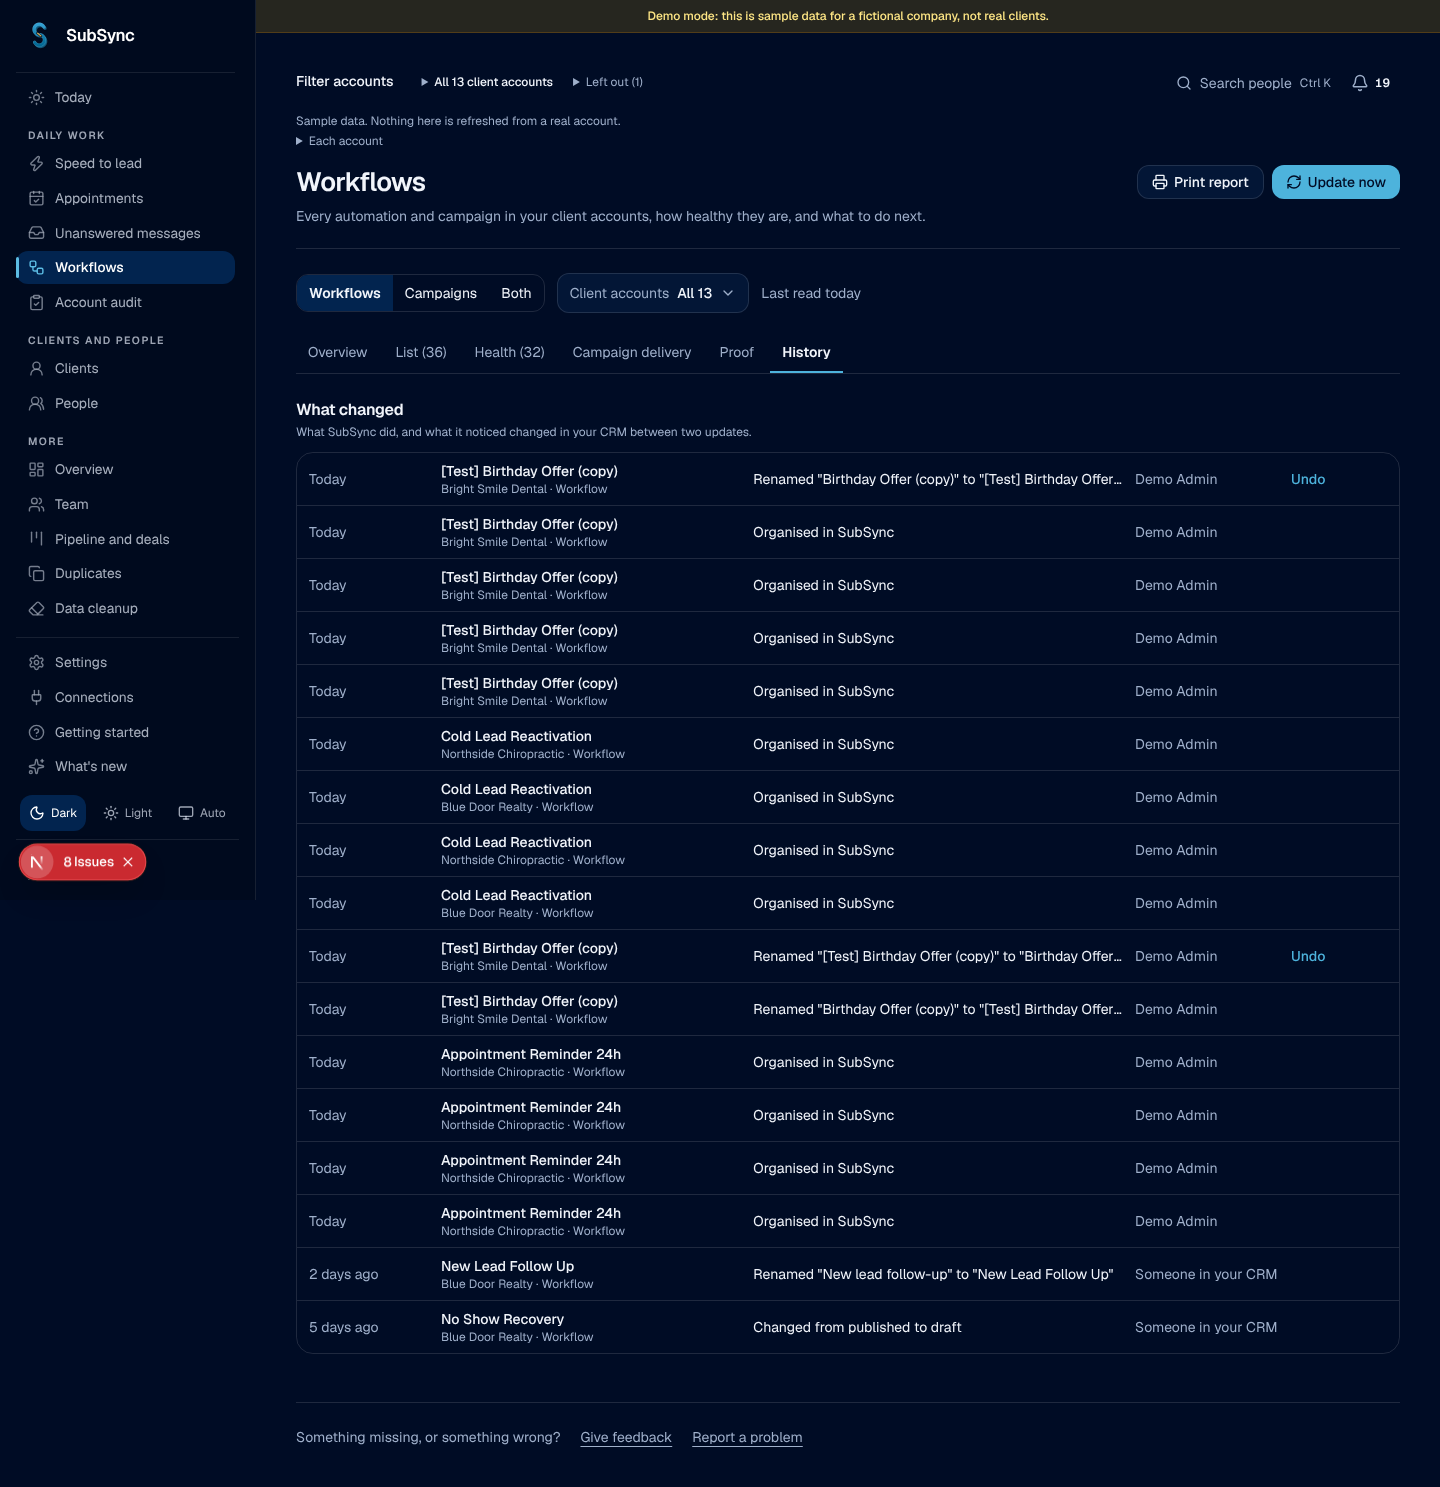
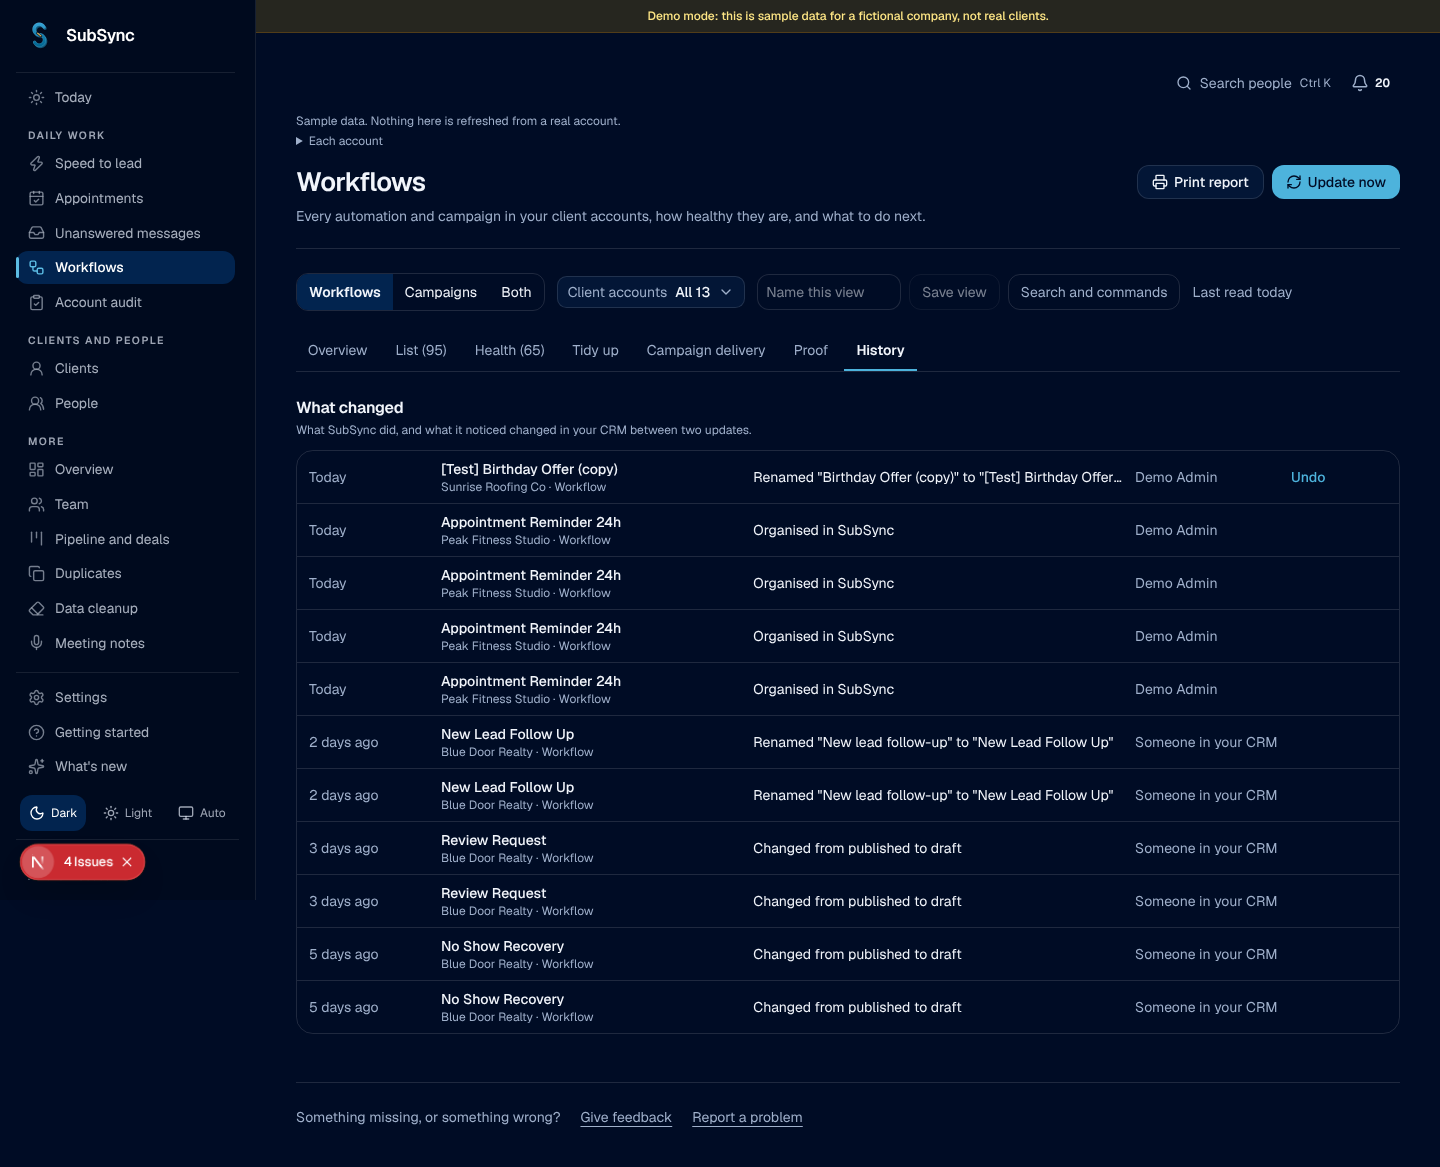
Workflows round 2: demo seed for every account, e2e for tidy, views, palette and single account picker, docs

diff --git a/tests/e2e/workflows.spec.ts b/tests/e2e/workflows.spec.ts
@@ -235,3 +235,71 @@ test("a client's staff see their own account only, with no change buttons", asyn
   await expect(page.getByTestId("wf-save")).toHaveCount(0);
   await page.getByTestId("wf-panel-close").click();
 });
+
+test("only the page's own account picker shows: the shell's account bar is hidden here and still there on other pages", async ({ page }) => {
+  await open(page);
+  await expect(page.getByTestId("toolbar").getByText("Filter accounts")).toHaveCount(0);
+  await expect(page.getByRole("button", { name: /Client accounts/ })).toBeVisible();
+  await page.goto("/app#overview");
+  await expect(page.getByTestId("toolbar").getByText("Filter accounts")).toBeVisible({ timeout: 30_000 });
+});
+
+test("tidy up: names to fix preview before they change, duplicates and the same workflow across accounts open their rows", async ({ page }) => {
+  await open(page);
+  await tab(page, "tidy");
+  await expect(page.getByTestId("wf-tidy")).toBeVisible();
+  await expect(page.getByTestId("wf-names")).toBeVisible();
+  await page.screenshot({ path: `${SHOT}/workflows-tidy-desktop-1440.png`, fullPage: true });
+  // the one-tap fix opens the rename preview with the rule already filled in; nothing is sent until Confirm
+  await page.getByTestId("wf-fix-copy").click();
+  await expect(page.getByTestId("wf-dialog")).toBeVisible();
+  await page.getByTestId("wf-allow-paused").check();
+  await page.getByTestId("wf-preview-btn").click();
+  await expect(page.getByTestId("wf-preview-row").first()).toBeVisible();
+  await expect(page.getByTestId("wf-confirm")).toBeEnabled();
+  await page.getByTestId("wf-dialog-close").click();
+  await expect(page.getByTestId("wf-dialog")).toBeHidden();
+  await page.getByTestId("wf-dupe-show").first().click();
+  await expect(panel(page)).toBeVisible();
+  expect(await count(page)).toBeGreaterThan(1);
+  await page.keyboard.press("Escape");
+  await page.getByTestId("wf-compare-show").first().click();
+  await expect(panel(page)).toBeVisible();
+  expect(await count(page)).toBeGreaterThan(1);
+  await page.keyboard.press("Escape");
+  await expect(page.getByTestId("wf-compare-row").first()).toContainText("accounts");
+});
+
+test("the turned-off check, saved views and the command palette", async ({ page }) => {
+  await open(page);
+  await tab(page, "health");
+  await expect(page.getByTestId("wf-findings")).toContainText("was turned off");
+  // saved view: name it, save it, change the page, apply it
+  await page.getByTestId("wf-view-name").fill("My tidy view");
+  await page.getByTestId("wf-tab-tidy").click();
+  await page.getByTestId("wf-show-both").click();
+  await page.getByTestId("wf-view-save").click();
+  await expect(page.getByTestId("wf-view-pick")).toBeVisible();
+  await page.getByTestId("wf-tab-overview").click();
+  await page.getByTestId("wf-show-workflow").click();
+  await page.getByTestId("wf-view-pick").selectOption("My tidy view");
+  await expect(page.getByTestId("wf-tidy")).toBeVisible();
+  await expect(page.getByTestId("wf-show-both")).toHaveAttribute("aria-pressed", "true");
+  // palette by keyboard: Ctrl Shift K, type, Enter
+  await page.keyboard.press("Control+Shift+K");
+  await expect(page.getByTestId("wf-palette")).toBeVisible();
+  await page.getByTestId("wf-palette-input").fill("proof");
+  await page.keyboard.press("Enter");
+  await expect(page.getByTestId("wf-proof")).toBeVisible();
+  // palette by mouse: open a workflow by name
+  await page.getByTestId("wf-palette-open").click();
+  await page.getByTestId("wf-palette-input").fill("Missed Call");
+  await page.getByTestId("wf-palette-row").filter({ hasText: "Items" }).first().click();
+  await expect(page.getByTestId("wf-panel")).toBeVisible();
+  await page.getByTestId("wf-panel-close").click();
+  await page.keyboard.press("Control+Shift+K");
+  await page.keyboard.press("Escape");
+  await expect(page.getByTestId("wf-palette")).toBeHidden();
+  // tidy up after the test: remove the saved view through the API the page uses
+  await page.evaluate(async () => { const t = (await fetch("/api/sso/demo", { method: "POST" }).catch(() => null)); void t; });
+});

diff --git a/tests/unit/workflows-db.test.ts b/tests/unit/workflows-db.test.ts
@@ -173,6 +173,45 @@ describe.skipIf(!HAS_DB)("Workflows module", () => {
     expect(p.status).toBe(200);
   });
 
+  it("round 2: tidy, turned off and saved views stay inside the session", async () => {
+    await sql()`insert into workflow_items (installation_id, location_id, workflow_id, name, status, remote_updated_at) values
+      (${instA}, ${A1}, 'a1-w3', 'Missed Call Text Back (copy)', 'draft', now()), (${instA}, ${A2}, 'a2-w2', 'Missed Call Text Back', 'published', now()),
+      (${instA}, ${A2}, 'a2-w3', 'Welcome  Message ', 'draft', now()), (${instB}, ${B1}, 'b1-w2', 'Missed Call Text Back', 'published', now())`;
+    await sql()`insert into workflow_changes (installation_id, location_id, workflow_id, kind, source, before, after, created_at) values (${instA}, ${A1}, 'a1-w3', 'status', 'observed', ${sql().json({ status: "published" } as never)}, ${sql().json({ status: "draft" } as never)}, now() - interval '1 day')`;
+    const t = session(CO_A, "agency", null);
+    const v = await call(t, "GET", "workflows");
+    expect(v.body.findings.some((f: Json) => f.kind === "turned_off" && f.workflowId === "a1-w3")).toBe(true);
+    const cmp = v.body.tidy.compare.find((g: Json) => g.name.startsWith("Missed Call Text Back"));
+    expect(cmp.items.map((i: Json) => i.locationId).sort()).toEqual([A1, A1, A2].sort());
+    expect(cmp.items.some((i: Json) => i.locationId === B1)).toBe(false);
+    expect(v.body.tidy.names.map((n: Json) => n.issue).sort()).toEqual(expect.arrayContaining(["copy", "spaces"]));
+    expect(v.body.tidy.dupes.length).toBeGreaterThan(0);
+    expect((await call(session(CO_A, "client", A2), "GET", "workflows")).body.tidy).toBeNull();
+    // saved views: only the person's own choices, another company's account id is dropped, a client may not save, and a view is private to its owner
+    const save = await call(t, "POST", "workflows/views", { name: "Mine", filters: { show: "both", tab: "tidy", picked: [A1, B1, "nonsense"] } });
+    expect(save.status).toBe(200);
+    const list = await call(t, "GET", "workflows/views");
+    expect(list.body.views).toHaveLength(1);
+    expect(list.body.views[0].filters.picked).toEqual([A1]);
+    expect((await call(session(CO_A, "client", A1), "POST", "workflows/views", { name: "x", filters: {} })).status).toBeGreaterThanOrEqual(403);
+    expect((await call(session(CO_A, "client", A1), "GET", "workflows/views")).body.views).toEqual([]);
+    expect((await call(session(CO_B, "agency", null), "GET", "workflows/views")).body.views).toEqual([]);
+    expect((await call(t, "POST", "workflows/views", { name: " ", filters: {} })).status).toBe(400);
+    expect((await call(t, "DELETE", "workflows/views?name=Mine")).status).toBe(200);
+    expect((await call(t, "GET", "workflows/views")).body.views).toEqual([]);
+  });
+
+  it("the scheduled refresh answers only to the secret, and only touches companies that have the module on", async () => {
+    const { GET } = await import("@/app/api/cron/workflows/route");
+    process.env.CRON_SECRET = "test-secret-for-workflows";
+    expect((await GET(new Request("http://localhost/api/cron/workflows"))).status).toBe(401);
+    expect((await GET(new Request("http://localhost/api/cron/workflows", { headers: { Authorization: "Bearer wrong" } }))).status).toBe(401);
+    const ok = await GET(new Request("http://localhost/api/cron/workflows", { headers: { Authorization: "Bearer test-secret-for-workflows" } }));
+    expect(ok.status).toBe(200);
+    const b = (await ok.json()) as Json;
+    expect(typeof b.companies).toBe("number");
+  });
+
   it("with the tables missing the page still opens, empty", async () => {
     await sql()`alter table workflow_items rename to workflow_items_hidden`;
     try {

diff --git a/src/lib/workflows/demo.ts b/src/lib/workflows/demo.ts
@@ -23,7 +23,7 @@ export async function ensureWorkflowsDemo(installationId: string): Promise<void>
   const db = sql();
   const [have] = await db`select 1 as x from workflow_items where installation_id = ${installationId} limit 1`;
   if (have) return;
-  const locs = await db`select location_id, name from locations where installation_id = ${installationId} and not ignored order by name limit 6`;
+  const locs = await db`select location_id, name from locations where installation_id = ${installationId} and not ignored order by name limit 20`;
   if (locs.length === 0) return;
   const now = Date.now();
   let n = 0;

diff --git a/docs/DECISIONS.md b/docs/DECISIONS.md
@@ -452,3 +452,11 @@ Decision: the screen is one sentence, one primary button ("Reply to the oldest w
 - **"What to say" is text only, reminders are dates to put in a calendar.** Nothing is sent and nothing is written to the CRM. The summary to copy or print leaves out the fee and private notes.
 - **No migration.** Everything reads tables that already exist.
 - **Not built on purpose:** sending reminders, importing fees from a pasted list (proposal), a client-facing share link, billing-based fees (needs financial scopes).
+
+## 4 Nov 2026: Workflows round 2 (pain points)
+
+- **Evidence is thin and said so.** `docs/research/WORKFLOWS_PAIN_POINTS.md`: 20 pain points from agency blogs and help pages (Reddit, the forum, G2 and YouTube were not readable). Verdicts: BUILD what is read only or SubSync side and has an endpoint; PROPOSAL for stuck in a wait step and which workflows touched a contact; SKIP for A2P status, usage cost (no endpoint found).
+- **Built:** "turned off" alert (published to draft or paused, seen between two updates, not by SubSync; also pushed through the shared dispatcher), compare the same workflow across client accounts with drift flags (states, versions, missing from some), name linter with a one-tap fix that opens the rename preview, near duplicate finder (same account, 80% shared words), review due (Review for 14 days), saved views (the person's own, in `saved_views`), command palette (Ctrl Shift K, this page only), hourly scheduled refresh route and a rehearsed weekly Proof email.
+- **The Proof email is a rehearsal.** The repo allows only the notification dispatcher to send email (a test enforces it), and the dispatcher has a fixed list of message types. Sending needs one new type there; until King approves that, the cron composes the mail and logs "WOULD SEND" even with `SEND_EMAIL_LIVE` on.
+- **One account picker.** The shell's account bar is not drawn on Workflows (same rule as Today); the page keeps its own picker. The page ignores the shared filter.
+- **Cron.** `api/cron/workflows` (hourly at :35, Bearer `CRON_SECRET`, read only, up to 8 client accounts per company per run, least recently read first, only companies with the module on and the paid plan). Registered in `vercel.json`, `route-guards.ts` and `docs/TENANCY.md`.

diff --git a/docs/METRICS.md b/docs/METRICS.md
@@ -599,3 +599,8 @@ The row's reason is the most serious reason with its number, "and N more things"
 **What changed** = the client's daily record now against the day about 30 days earlier (within a week of that day): health score when it moved 5 points or more; new contacts with `changeBetween` (a percentage only from a base of 10, else the plain difference); open pipeline when it moved 20% or more. Under 28 days of record it says so and claims nothing.
 **What to say** = text per reason, to read out or copy. **Reminder days** = 60, 30 and 14 days before the renewal that are still ahead. Both are displays; nothing is sent. The **client summary** (copy or print) leaves out the fee and the team's private notes and names no product.
 **Server and scale.** The first answer holds five rows of each list and counts (a few kB at 150 clients); a full list is asked 25 at a time (at most 50) with search, filter and order on the server; the heavy read is the Account audit's own 45-second kept read, shared by account set. Agency only: a business owner and a client's staff get 403 on every Clients address.
+
+- **Turned off** (Workflows): a workflow that was published at the earlier update and is now a draft or paused, noticed in the last 7 days, not changed by SubSync, and still not published. Campaigns count as info only.
+- **Same workflow across accounts**: names are matched after lower case, punctuation and "copy" are removed; drift = states differ, version numbers differ (a platform edit counter, so an inference that the contents differ), or it is missing from some client accounts. Needs 2 accounts.
+- **Near duplicate**: inside one client account, same normalised name or at least 80% shared words (words of 2 letters or more).
+- **Review due**: decision Review and no change to the note for 14 days.

diff --git a/docs/FEATURE_STATUS.md b/docs/FEATURE_STATUS.md
@@ -262,3 +262,5 @@ Top three problems fixed from the walkthrough: (1) sideways scrolling on phones,
 Open, for King: the simplify cuts 7 to 14 in `docs/SIMPLIFY_M1_M2.md` (hiding Duplicates and Cleanup, merging Team into Settings, Compare and Reviews), and the three proposals in `docs/INNOVATION_M1_M2.md` (recommended: Alert outcomes). Nothing there was built without your yes.
 
 | Workflows and campaigns (W1) | Flag `workflows`, default OFF. List across client accounts, health checks with alerts (in app and email through the existing alert engine), campaign delivery from totals, Proof page, inline detail, working queue (Mark fixed, Snooze, Watch), labels, ratings and notes (SubSync only), change history with undo, guarded rename, publish, pause, copy and delete. Data source: workflow and campaign endpoints (docs/features/WORKFLOWS.md). Tested against live data: NO (mocks, a throwaway database and the demo only). Writes are rehearsals until `WORKFLOWS_WRITE_LIVE=true`. Field names of the search, log and statistics answers are CHECK items. |
+
+| Workflows round 2 | Tidy up tab (names, duplicates, same workflow across accounts), turned-off and review-due prompts, saved views, command palette (Ctrl Shift K), hourly refresh route, weekly Proof email rehearsal. Demo and mocks only; not tested against live data. The Proof email is never sent from here (needs a dispatcher message type). |
